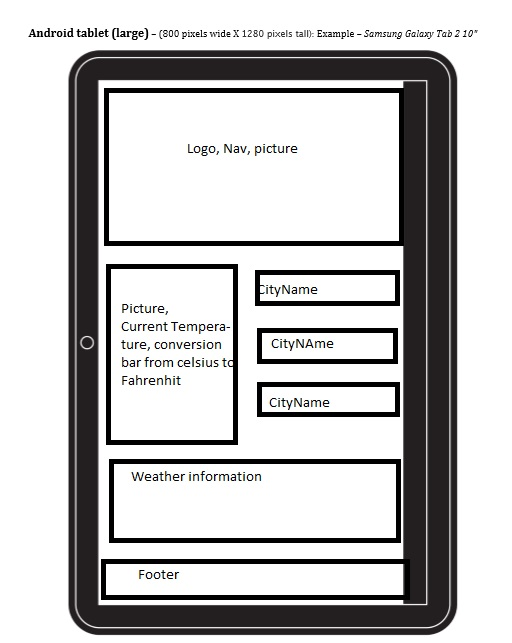
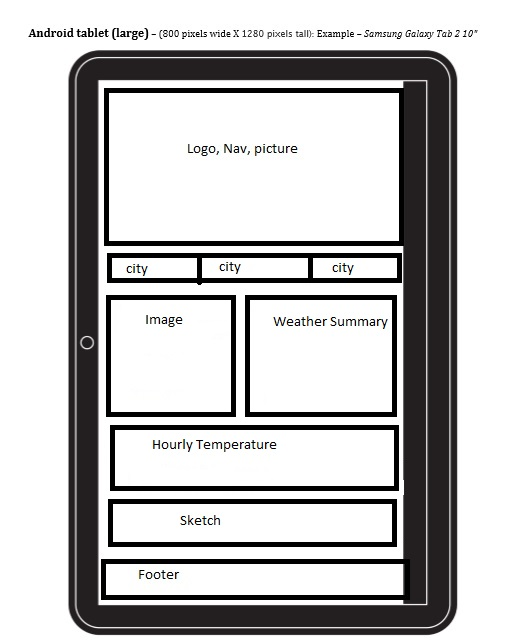
34gretgbrt

Changed region(s): [[0.1875, 0.3733, 0.8125, 0.8709]]

diff --git a/css/weather.css b/css/weather.css
@@ -1,6 +1,5 @@
 body{
-	display: flex;
-	flex-wrap: wrap;
+
 	border: 2px solid blue;
 	margin: 0;
 }
@@ -8,14 +7,14 @@ body{
 header{
 	display: flex;
 	flex-wrap: wrap;
-	flex: 1 0 auto;
+	flex: 1 0 100%;
 	padding: 2%;
 	border: 2px solid red;
 	font-size: 3vw;
 }
 
 header>*{
-	flex: 1 0 auto;
+	flex: 1 0 100%;
 	margin:0;
 	text-align: center;
 	
@@ -36,7 +35,7 @@ nav{
 	border: 2px solid green;
 	display: flex;
 	flex-wrap: wrap;
-	flex: 1 0 100%;
+	flex: 1 0 auto;
 	font-size: 3vw;
 	
 }
@@ -46,7 +45,7 @@ nav > ul{
 	list-style-type: none;
 	padding: 0px;
 	margin: 0px;
-	flex: 1 0 100%;
+	flex: 1 0 auto;
 	text-align: center;
 }
 
@@ -69,12 +68,12 @@ a:hover{
 	font-size: 1em;
 }
 
+a:visited{
+	color: blue;
+}
  
 main{
-	border: 2px solid purple;
-	width: 100%;
 	font-size: 8vw;
-	
 }
 
 #weather_summary{
@@ -125,6 +124,14 @@ main{
 	heght: auto;
 }
 
+#medium_title{
+	display: none;
+}
+
+#large_title{
+	display: none;
+}
+
 #image_medium{
 	display: none;
 }
@@ -152,10 +159,129 @@ footer>ul>li{
 	padding-left: 4vw;
 }
 
-@media screen and (min-width: 800px ){
-	nav{
+
+
+@media (min-width: 600px) and (max-width: 1000px){
+
+header{
+	border: 0;
+	height: 20vh;
+	align-items: center;
+	
+	font-family: "Palatino Linotype", "Book Antiqua", Palatino, serif;
+}
+
+header:hover{
+	background-color: lightblue;
+}
+
+nav{
+	border: 0;
+}
+
+nav > ul{
+	display: flex;
+	flex-direction: row;
+	
+}
+
+nav > ul > li{
+	flex: 1 0 auto;	
+	border: 0;
+}
+
+#weather_information{
+	display: flex;
+	flex-wrap: wrap;
+	justify-content: space-between;
+	align-items: center;
+	margin-top: 5vh;
+	
+}
+
+#weather_information  img{
+	flex: 0 0 48vw;
+	border: 0;
+}
+
+#weather_information > figure{
+	display:flex;
+	
+}
+
+#weather_information > figure:hover{
+	background-color: lightblue;
+}
+
+#weather_information > #weather_summary{
+	border: 0;
+	flex: 0 0 45%;
+	font-size: 5vw;
+	margin-bottom: 5vh;
+}
+
+#weather_information > #weather_summary:hover{
+	background-color: lightblue;
+}
+
+#weather_information > #weather_summary > *{
+	font-size: 5vw;
+	border: 0;
+}
+
+#weather_information #daily_temperature{
+	font-size: 5vw;
+	flex: 1 0 auto;	
+}
+
+#weather_information #daily_temperature:hover{
+	background-color: lightblue;
+}
+
+#medium_title:hover{
+	background-color: lightblue;
+}
+
+#image_small{
+	display: none;
+}
+#image_medium{
+	display: block;
+}
+
+#image_large{
+	display: none;
+}
+
+#small_title{
+	display: none;
+}
+
+#medium_title{
+	margin: 0;
+	border: 2px solid black;
+	display: flex;
+	align-items: center;
+	padding-left: 2vw; 
+	heght: auto;
+}
+
+#large_title{
+	display: none;
+}
+
+}
+
+@media(min-width: 1001px ){
+header{
+	flex-basis: auto;
+}
+
+nav{
+	
 	border: 2px solid green;
-	width: 100%;
+	flex-direction: row;
+	
 }
 
 nav > ul{
@@ -168,14 +294,41 @@ nav > ul{
 }
 
 nav > ul > li{
+	flex-basis: 30%;
 	border: 2px solid blue;
-	width: 100%;
-	flex: 1 0 25%;
-	
 }
 
 nav > ul > li > a{
 	text-decoration: none;
 }
 
+#image_small{
+	display: none;
 }
+
+#image_medium{
+	display: none;
+}
+
+#image_large{
+	display: block;
+}
+
+#small_title{
+	display: none;
+}
+
+#medium_title{
+	display: none;
+}
+
+#large_title{
+	margin: 0;
+	border: 2px solid black;
+	display: flex;
+	align-items: center;
+	padding-left: 2vw; 
+	heght: auto;
+}
+}
+

diff --git a/myhomework/franklin.html b/myhomework/franklin.html
@@ -13,6 +13,7 @@
 	<header>
 		<h1 id="header">Franklin Weather Today</h1>
 	</header>
+	
 	<nav>
 		<ul>
 			<li><a href="franklin.html">Franklin</a></li>
@@ -21,10 +22,10 @@
 		</ul>
 	</nav>
 	<main>
-		<figure>
-		<img  alt="Sunny Weather" src="../images/sunny_weather.png">
-		</figure>
 		<article id="weather_information">
+			<figure>
+				<img  alt="Sunny Weather" src="../images/sunny_weather.png">
+			</figure>
 			<section id="weather_summary">
 				<h4>Weather Information:</h4>
 				<p>City: Franklin;</p>
@@ -65,6 +66,8 @@
 			</section>
 		</article>
 		<h2 id="small_title">Sketch: Small</h2>
+		<h2 id="medium_title">Sketch: Medium</h2>
+		<h2 id="large_title">Sketch: Large</h2>
 		<figure>
 			<img id="image_small" alt="Small Sketch for Mobile" src="../images/sketches/small.jpg">
 			<img id="image_medium" alt="Medium Sketch for Tablets" src="../images/sketches/midium.jpg">
@@ -74,7 +77,7 @@
 	<footer>
 	<ul>
 		<li>Maksim Efoshkin &copy;</li>
-		<li>Last Updated: 23\10\16</li>
+		<li>Last Updated: 29\10\16</li>
 	</ul>
 	</footer>
 
